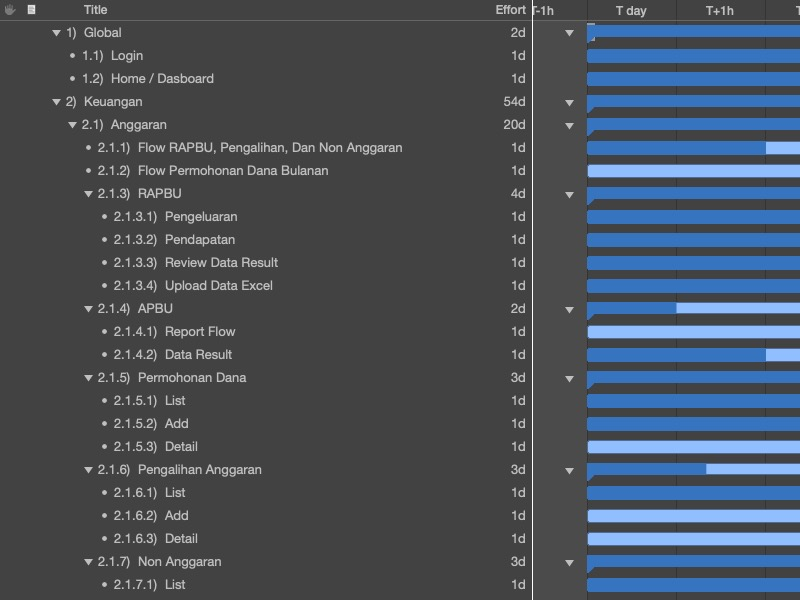
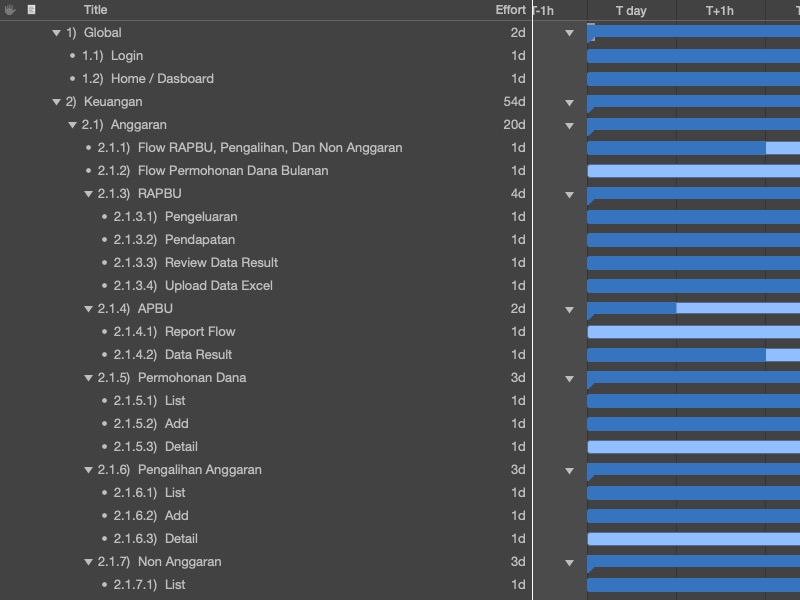
Update Timeline - 13 May 2019
Anggaran (Budget) UI and Backend Progress YPL edition

Changed region(s): [[0.7188, 0.84, 1.0, 0.87], [0.875, 0.75, 1.0, 0.81]]

diff --git a/TIMELINE.YPL/task.html b/TIMELINE.YPL/task.html
@@ -98,7 +98,7 @@
                 <td>T day 08.00</td>
                 <td>T day 17.00</td>
                 <td>1d</td>
-                <td>36%</td>
+                <td>40%</td>
                 <td></td>
                 <td align="right"></td>
                 <td></td>
@@ -114,7 +114,7 @@
                 <td>T day 08.00</td>
                 <td>T day 17.00</td>
                 <td>1d</td>
-                <td>48%</td>
+                <td>60%</td>
                 <td></td>
                 <td align="right"></td>
                 <td></td>
@@ -290,7 +290,7 @@
                 <td>T day 08.00</td>
                 <td>T day 17.00</td>
                 <td>1d</td>
-                <td>53%</td>
+                <td>67%</td>
                 <td></td>
                 <td align="right"></td>
                 <td></td>
@@ -306,7 +306,7 @@
                 <td>T day 08.00</td>
                 <td>T day 17.00</td>
                 <td>1d</td>
-                <td>80%</td>
+                <td>100%</td>
                 <td></td>
                 <td align="right"></td>
                 <td></td>
@@ -322,7 +322,7 @@
                 <td>T day 08.00</td>
                 <td>T day 17.00</td>
                 <td>1d</td>
-                <td>80%</td>
+                <td>100%</td>
                 <td></td>
                 <td align="right"></td>
                 <td></td>
@@ -354,7 +354,7 @@
                 <td>T day 08.00</td>
                 <td>T day 17.00</td>
                 <td>1d</td>
-                <td>17%</td>
+                <td>33%</td>
                 <td></td>
                 <td align="right"></td>
                 <td></td>
@@ -386,7 +386,7 @@
                 <td>T day 08.00</td>
                 <td>T day 17.00</td>
                 <td>1d</td>
-                <td>0%</td>
+                <td>50%</td>
                 <td></td>
                 <td align="right"></td>
                 <td></td>
@@ -482,7 +482,7 @@
                 <td>T day 08.00</td>
                 <td>T day 17.00</td>
                 <td>1d</td>
-                <td>53%</td>
+                <td>100%</td>
                 <td></td>
                 <td align="right"></td>
                 <td></td>
@@ -498,7 +498,7 @@
                 <td>T day 08.00</td>
                 <td>T day 17.00</td>
                 <td>1d</td>
-                <td>80%</td>
+                <td>100%</td>
                 <td></td>
                 <td align="right"></td>
                 <td></td>
@@ -514,7 +514,7 @@
                 <td>T day 08.00</td>
                 <td>T day 17.00</td>
                 <td>1d</td>
-                <td>80%</td>
+                <td>100%</td>
                 <td></td>
                 <td align="right"></td>
                 <td></td>
@@ -530,7 +530,7 @@
                 <td>T day 08.00</td>
                 <td>T day 17.00</td>
                 <td>1d</td>
-                <td>0%</td>
+                <td>100%</td>
                 <td></td>
                 <td align="right"></td>
                 <td></td>
@@ -1295,7 +1295,7 @@
             </tr>
             </table>
         </div>
-        <p class="footer">Exported 06/05/19</p>
+        <p class="footer">Exported 13/05/19</p>
     </div>
 </body>
 </html>

diff --git a/TIMELINE.YPL/gantt.html b/TIMELINE.YPL/gantt.html
@@ -32,26 +32,26 @@
             <h1>TIMELINE-KEUANGAN: <span class="subtitle">Gantt Chart</span></h1>
           <div class="tablewrap">  <table border="0" cellspacing="0" cellpadding="0">
 <tr>
-	<td><img src="include/gantt0,0.jpg?nocacheTag=755517536" border=0/></td>
-	<td><img src="include/gantt1,0.jpg?nocacheTag=-582470582" border=0/></td>
+	<td><img src="include/gantt0,0.jpg?nocacheTag=-493986790" border=0/></td>
+	<td><img src="include/gantt1,0.jpg?nocacheTag=1371827863" border=0/></td>
 </tr>
 <tr>
-	<td><img src="include/gantt0,1.jpg?nocacheTag=1636856545" border=0/></td>
-	<td><img src="include/gantt1,1.jpg?nocacheTag=-748553830" border=0/></td>
+	<td><img src="include/gantt0,1.jpg?nocacheTag=-1753538789" border=0/></td>
+	<td><img src="include/gantt1,1.jpg?nocacheTag=-1558150010" border=0/></td>
 </tr>
 <tr>
-	<td><img src="include/gantt0,2.jpg?nocacheTag=959981130" border=0/></td>
-	<td><img src="include/gantt1,2.jpg?nocacheTag=1363460805" border=0/></td>
+	<td><img src="include/gantt0,2.jpg?nocacheTag=261902262" border=0/></td>
+	<td><img src="include/gantt1,2.jpg?nocacheTag=-1332290466" border=0/></td>
 </tr>
 <tr>
-	<td><img src="include/gantt0,3.jpg?nocacheTag=909935516" border=0/></td>
-	<td><img src="include/gantt1,3.jpg?nocacheTag=887327660" border=0/></td>
+	<td><img src="include/gantt0,3.jpg?nocacheTag=-765547764" border=0/></td>
+	<td><img src="include/gantt1,3.jpg?nocacheTag=573167860" border=0/></td>
 </tr>
 </table>
 </div>
 
 			</div> 
-            <p class="footer">Exported 06/05/19</p>
+            <p class="footer">Exported 13/05/19</p>
         </div>
     </div>
 </body>

diff --git a/TIMELINE.YPL/index.html b/TIMELINE.YPL/index.html
@@ -47,8 +47,8 @@
   <li id="first" class="column">
     <h3>Variance:</h3><p><span class="data-missing">None</span></p></li>
   <li id="middle" class="column">
-    <h3>Completion:</h3><p>38%</p>
-    <div id="bar"><div id="fill" style="width:38%;"></div></div></li>
+    <h3>Completion:</h3><p>42%</p>
+    <div id="bar"><div id="fill" style="width:42%;"></div></div></li>
   <li id="third" class="column">
     <h3>Cost:</h3><span class="data-missing">None</span></li>
 </ul>
@@ -77,7 +77,7 @@
                     </tr>
                     </table>
 			</div> 
-            <p class="footer">Exported 06/05/19</p>
+            <p class="footer">Exported 13/05/19</p>
             </div><!-- end content-->
     </div>
 </body>

diff --git a/TIMELINE.YPL/montecarlo.html b/TIMELINE.YPL/montecarlo.html
@@ -31,7 +31,7 @@
         <div id="content">
             <h1>TIMELINE-KEUANGAN: <span class="subtitle">Monte Carlo Simulation</span></h1>
                </div> 
-            <p class="footer">Exported 06/05/19</p>
+            <p class="footer">Exported 13/05/19</p>
         </div>
     </div>
 </body>

diff --git a/TIMELINE.YPL/eva.html b/TIMELINE.YPL/eva.html
@@ -1314,7 +1314,7 @@
 	            </ul>    
             </div>
 			</div> 
-            <p class="footer">Exported 06/05/19</p>
+            <p class="footer">Exported 13/05/19</p>
         </div>
     </div>
 </body>

diff --git a/TIMELINE.YPL/resource.html b/TIMELINE.YPL/resource.html
@@ -55,7 +55,7 @@
             </tr>
             </table>
         </div>
-        <p class="footer">Exported 06/05/19</p>
+        <p class="footer">Exported 13/05/19</p>
     </div>
 </body>
 </html>

diff --git a/TIMELINE.YPL/timeline.html b/TIMELINE.YPL/timeline.html
@@ -47,7 +47,7 @@
 </table>
 </div>
 			</div> 
-            <p class="footer">Exported 06/05/19</p>
+            <p class="footer">Exported 13/05/19</p>
         </div>
     </div>
 </body>
